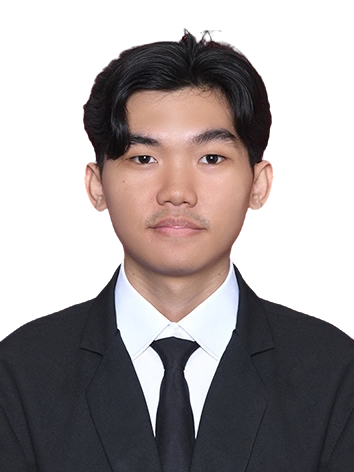
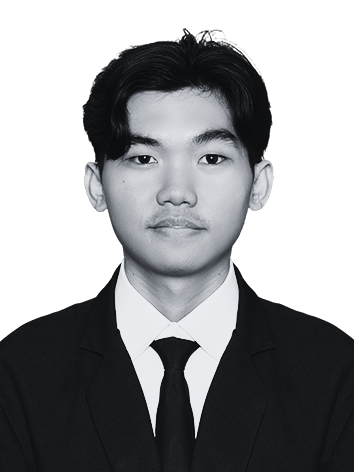
backup: hero section grayscale dengan teks di tengah

diff --git a/index.html b/index.html
@@ -123,56 +123,32 @@
 
     <main>
         <section id="hero" class="hero section">
-            <div class="container hero-grid">
-                <div class="hero-content">
-                    <p class="hero-greeting">Hello, I'm</p>
-                    <h1 class="hero-name">David Christiano K</h1>
-                    <p class="hero-role">Web Developer</p>
+            <div class="hero-bg-text">DAVID CHRISTIANO KURNIADI</div>
+            <div class="hero-layout">
+                <div class="hero-left">
+                    <h2 class="hero-role">Web Developer</h2>
                     <p class="hero-statement">I build digital experiences that are: <span class="text-accent">fast</span>, <span class="text-accent">functional</span>, and <span class="text-accent">robust</span>.</p>
                     <div class="hero-actions">
                         <a href="#projects" class="btn btn-primary">View Projects</a>
                         <a href="assets/David Christiano K-CV.pdf" class="btn btn-outline" download>Download CV</a>
-                        <a href="#contact" class="btn btn-ghost">Contact Me</a>
                     </div>
-                    <!-- <div class="hero-stats">
-                        <div><strong>15+</strong><span>Projects</span></div>
-                        <div><strong>50+</strong><span>Features</span></div>
-                        <div><strong>100+</strong><span>Commits</span></div>
-                        <div><strong>3+</strong><span>Years Learning</span></div>
-                    </div> -->
                 </div>
-                    <div class="hero-photo-wrap">
-                        <img src="assets/images/pasfotoedited.jpg" alt="Pasfoto David Christiano K, Web Developer" class="hero-photo" width="768" height="1024">
-                    </div>
-                <div class="hero-visual">
-                    <div class="profile-card">
-                        <div class="card-face">
-                            <img src="assets/images/pasfotoedited.jpg" alt="Pasfoto David Christiano K, Web Developer" class="profile-photo" width="768" height="1024">
-                            <div class="card-face-text">
-                                <span class="card-name">David Christiano K</span>
-                                <span class="card-role">Web Developer</span>
-                            </div>
-                        </div>
-                        <div class="card-code-window">
-                            <div class="card-code-header"><span></span><span></span><span></span></div>
-                            <div class="card-code-body">
-                                <div class="code-line"><span class="keyword">const</span> build = <span class="keyword">async</span> (project) =&gt; {</div>
-                                <div class="code-line indent">  <span class="keyword">const</span> design = await research();</div>
-                                <div class="code-line indent">  <span class="keyword">const</span> backend = await integrate(db);</div>
-                                <div class="code-line indent">  <span class="keyword">return</span> deploy(design + backend);</div>
-                                <div class="code-line">};</div>
-                                <div class="code-line mt"><span class="comment">// solve → deliver</span></div>
-                            </div>
-                        </div>
-                        <div class="card-metrics">
-                            <span>95 Lighthouse Score</span>
-                            <span>100% Responsive</span>
-                            <span>A+ Accessibility</span>
-                        </div>
-                        <div class="card-arch-line">
-                            <span>Frontend</span><span class="arrow">→</span><span>API</span><span class="arrow">→</span><span>DB</span>
-                        </div>
-                    </div>
+                <div class="hero-center">
+                    <img src="assets/images/pasfotonobackground.png" alt="David Christiano K, Web Developer" class="hero-photo">
+                </div>
+                <div class="hero-right">
+                    <a href="https://www.linkedin.com/in/david-christiano/" target="_blank" class="social-pill">
+                        <svg width="16" height="16" viewBox="0 0 24 24" fill="currentColor"><path d="M19 0h-14c-2.761 0-5 2.239-5 5v14c0 2.761 2.239 5 5 5h14c2.762 0 5-2.239 5-5v-14c0-2.761-2.238-5-5-5zm-11 19h-3v-11h3v11zm-1.5-12.268c-.966 0-1.75-.79-1.75-1.764s.784-1.764 1.75-1.764 1.75.79 1.75 1.764-.783 1.764-1.75 1.764zm13.5 12.268h-3v-5.604c0-3.368-4-3.113-4 0v5.604h-3v-11h3v1.765c1.396-2.586 7-2.777 7 2.476v6.759z"/></svg>
+                        LinkedIn
+                    </a>
+                    <a href="https://wa.me/6285875179866" target="_blank" class="social-pill">
+                        <svg width="16" height="16" viewBox="0 0 24 24" fill="currentColor"><path d="M.057 24l1.687-6.163c-1.041-1.804-1.588-3.849-1.587-5.946.003-6.556 5.338-11.891 11.893-11.891 3.181.001 6.167 1.24 8.413 3.488 2.245 2.248 3.481 5.236 3.48 8.414-.003 6.557-5.338 11.892-11.893 11.892-1.99-.001-3.951-.5-5.688-1.448l-6.305 1.654zm6.597-3.807c1.676.995 3.276 1.591 5.392 1.592 5.448 0 9.886-4.434 9.889-9.885.002-5.462-4.415-9.89-9.881-9.892-5.452 0-9.887 4.434-9.889 9.884-.001 2.225.651 3.891 1.746 5.634l-.999 3.648 3.742-.981zm11.387-5.464c-.074-.124-.272-.198-.57-.347-.297-.149-1.758-.868-2.031-.967-.272-.099-.47-.149-.669.149-.198.297-.768.967-.941 1.165-.173.198-.347.223-.644.074-.297-.149-1.255-.462-2.39-1.475-.883-.788-1.48-1.761-1.653-2.059-.173-.297-.018-.458.13-.606.134-.133.297-.347.446-.521.151-.172.2-.296.3-.495.099-.198.05-.372-.025-.521-.075-.148-.669-1.611-.916-2.206-.242-.579-.487-.501-.669-.51l-.57-.01c-.198 0-.52.074-.792.372s-1.04 1.016-1.04 2.479 1.065 2.876 1.213 3.074c.149.198 2.095 3.2 5.076 4.487.709.306 1.263.489 1.694.626.712.226 1.36.194 1.872.118.571-.085 1.758-.719 2.006-1.413.248-.695.248-1.29.173-1.414z"/></svg>
+                        WhatsApp
+                    </a>
+                    <a href="mailto:davidchristianok@gmail.com" class="social-pill">
+                        <svg width="16" height="16" viewBox="0 0 24 24" fill="none" stroke="currentColor" stroke-width="2" stroke-linecap="round" stroke-linejoin="round"><path d="M4 4h16c1.1 0 2 .9 2 2v12c0 1.1-.9 2-2 2H4c-1.1 0-2-.9-2-2V6c0-1.1.9-2 2-2z"></path><polyline points="22,6 12,13 2,6"></polyline></svg>
+                        Email
+                    </a>
                 </div>
             </div>
         </section>

diff --git a/styles/main.css b/styles/main.css
@@ -244,10 +244,14 @@ h2::after {
 
 /* Hero */
 .hero {
-    padding-top: 4.5rem;
-    padding-bottom: 3rem;
+    min-height: 100vh;
+    display: flex;
+    align-items: center;
+    justify-content: center;
     position: relative;
     overflow: hidden;
+    overflow-x: hidden;
+    padding: 2rem;
 }
 
 .hero::before {
@@ -265,82 +269,65 @@ h2::after {
     background: radial-gradient(circle, rgba(56,189,248,0.08) 0%, transparent 70%);
 }
 
-.hero-grid {
+/* Background Text */
+.hero-bg-text {
+    position: absolute;
+    top: 50%;
+    left: 50%;
+    transform: translate(-50%, -50%);
+    width: 100%;
+    text-align: center;
+    font-size: clamp(1.5rem, 5.2vw, 7rem);
+    font-weight: 900;
+    letter-spacing: 0.02em;
+    white-space: nowrap;
+    -webkit-text-stroke: 2px rgba(0, 0, 0, 0.2);
+    color: transparent;
+    opacity: 1;
+    pointer-events: none;
+    user-select: none;
+    z-index: 0;
+    overflow: hidden;
+}
+
+[data-theme="dark"] .hero-bg-text {
+    -webkit-text-stroke: 2px rgba(255, 255, 255, 0.25);
+}
+
+/* Hero Layout */
+.hero-layout {
     display: grid;
-    grid-template-columns: 1fr;
+    grid-template-columns: 1fr auto 1fr;
+    align-items: center;
     gap: 2rem;
-    align-items: center;
-}
-
-.hero-photo-wrap {
-    display: flex;
-    justify-content: center;
-    align-items: center;
-}
-
-.hero-photo {
-    width: clamp(200px, 24vw, 280px);
-    height: clamp(200px, 24vw, 280px);
-    border-radius: 50%;
-    object-fit: cover;
-    object-position: center 20%;
-    border: 4px solid transparent;
-    background: var(--accent-gradient) border-box;
-    box-shadow: 0 12px 40px rgba(2, 6, 23, 0.35);
-}
-
-@media (min-width: 1024px) {
-    .hero-grid {
-        grid-template-columns: 1.2fr 0.8fr;
-    }
-
-    .hero-content {
-        grid-column: 1;
-        grid-row: 1;
-    }
-
-    .hero-photo-wrap {
-        grid-column: 2;
-        grid-row: 1;
-    }
-
-    .hero-visual {
-        grid-column: 1 / -1;
-    }
-}
-
-.hero-content {
-    display: flex;
-    flex-direction: column;
-    gap: 0.75rem;
+    width: 100%;
+    max-width: 1200px;
     position: relative;
     z-index: 1;
 }
 
-.hero-greeting {
-    font-weight: 600;
-    color: var(--accent);
-    text-transform: uppercase;
-    letter-spacing: 0.05em;
-    font-size: 0.875rem;
-}
-
-.hero-name {
-    font-size: 3rem;
-    line-height: 1.1;
-    letter-spacing: -0.02em;
-    margin: 0;
+/* Left Content */
+.hero-left {
+    display: flex;
+    flex-direction: column;
+    gap: 1rem;
+    align-items: flex-start;
 }
 
 .hero-role {
-    font-size: 1.125rem;
-    color: var(--text-muted);
+    font-size: 3.5rem;
+    font-weight: 700;
     margin: 0;
+    color: var(--text);
+    line-height: 1.1;
 }
 
 .hero-statement {
-    font-size: 1.05rem;
-    max-width: 540px;
+    font-size: 1rem;
+    color: var(--text-muted);
+    margin: 0;
+    max-width: 320px;
+    line-height: 1.6;
 }
 
 .hero-actions {
@@ -348,6 +335,119 @@ h2::after {
     gap: 0.75rem;
     flex-wrap: wrap;
     margin-top: 0.5rem;
+}
+
+/* Center Photo */
+.hero-center {
+    display: flex;
+    justify-content: center;
+    align-items: center;
+    position: relative;
+}
+
+.hero-photo {
+    width: clamp(280px, 30vw, 420px);
+    height: auto;
+    object-fit: contain;
+    filter: drop-shadow(0 20px 40px rgba(0, 0, 0, 0.3));
+    position: relative;
+    z-index: 2;
+    mask-image: linear-gradient(to bottom, black 70%, transparent 100%);
+    -webkit-mask-image: linear-gradient(to bottom, black 70%, transparent 100%);
+}
+
+/* Right Content - Social Pills */
+.hero-right {
+    display: flex;
+    flex-direction: column;
+    gap: 0.75rem;
+    align-items: flex-end;
+}
+
+.social-pill {
+    display: inline-flex;
+    align-items: center;
+    gap: 0.5rem;
+    padding: 0.6rem 1.25rem;
+    background: var(--card-bg);
+    border: 1px solid var(--border);
+    border-radius: 2rem;
+    font-size: 0.875rem;
+    font-weight: 500;
+    color: var(--text);
+    text-decoration: none;
+    transition: all 0.3s ease;
+    min-width: 140px;
+}
+
+.social-pill:hover {
+    border-color: var(--accent);
+    transform: translateX(-5px);
+    box-shadow: 0 4px 12px rgba(59, 130, 246, 0.2);
+}
+
+.social-pill svg {
+    flex-shrink: 0;
+}
+
+/* Mobile Responsive */
+@media (max-width: 768px) {
+    .hero {
+        min-height: auto;
+        padding: 4rem 1.5rem 2rem;
+    }
+
+    .hero-bg-text {
+        font-size: clamp(1rem, 5vw, 2.5rem);
+        -webkit-text-stroke: 1px rgba(0, 0, 0, 0.15);
+    }
+
+    [data-theme="dark"] .hero-bg-text {
+        -webkit-text-stroke: 1px rgba(255, 255, 255, 0.2);
+    }
+
+    .hero-layout {
+        grid-template-columns: 1fr;
+        text-align: center;
+        gap: 2rem;
+    }
+
+    .hero-left {
+        align-items: center;
+        order: 2;
+    }
+
+    .hero-center {
+        order: 1;
+    }
+
+    .hero-photo {
+        width: clamp(200px, 50vw, 300px);
+    }
+
+    .hero-right {
+        align-items: center;
+        order: 3;
+        flex-direction: row;
+        flex-wrap: wrap;
+        justify-content: center;
+    }
+
+    .social-pill {
+        min-width: auto;
+    }
+
+    .hero-actions {
+        justify-content: center;
+    }
+
+    .hero-role {
+        font-size: 2.25rem;
+    }
+
+    .hero-statement {
+        max-width: 100%;
+    }
 }
 
 /* AI-Powered Development */
